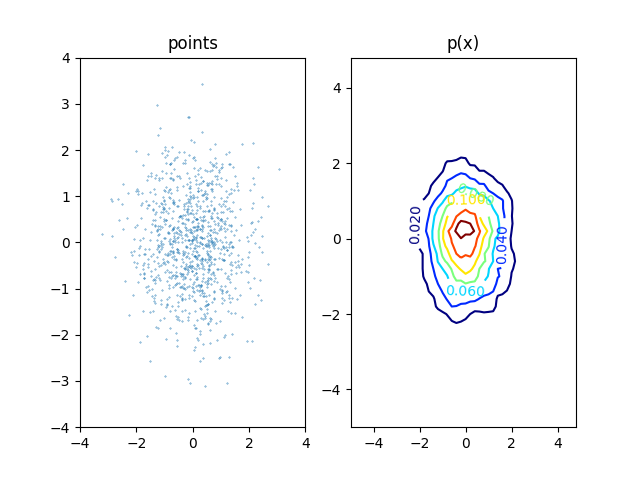
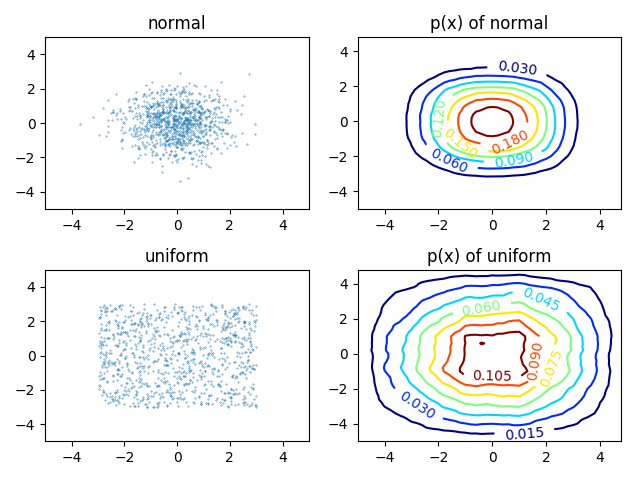
ENH: use viz engine, try two dists

diff --git a/run.py b/run.py
@@ -1,39 +1,34 @@
-import matplotlib.pyplot as plt
 from utils.windows import hypercube_window_func as HCW
 from utils.kernels import hypercube as HCK
 from core.parzen import ParzenWindow
+from utils.viz import ParzenViz
+
 
 if __name__ == "__main__":
     import numpy as np
-    P = ParzenWindow(kernel_fcn=HCK, window_fcn=HCW, window_size=1.)
-    x_train = np.random.multivariate_normal(np.zeros(2),
-                                            np.eye(2),
-                                            1000).astype('float32')
-    print x_train.shape
-    x_sample = np.array([[0, 0]]).astype('float32')
+    P = ParzenWindow(kernel_fcn=HCK, window_fcn=HCW, window_size=2.)
+    x_train_normal = np.random.multivariate_normal(np.zeros(2),
+                                                   np.eye(2),
+                                                   1000).astype('float32')
+    x_sample = np.array([[0.5, 0]]).astype('float32')
 
     print 30 * "-"
+    print "Exp. 1"
     print "x_train \t--> 1000 2D points from multivariate N([0, 0], [[1,0],[0,1]])"
-    print "x \t\t--> ", x_sample.squeeze()
-    print "p(x) \t\t--> ", P.estimate_probability(x_train, x_sample)
+    print "x \t\t--> ", x_sample
+    print "p(x) \t\t--> ", P.estimate_probability(x_sample, x_train_normal)
     print 30 * "-"
 
-    size = 5
-    frac = 0.2
-    p = np.arange(-size, size, frac)
-    map_size = (2 * int(size / frac), 2 * int(size / frac))
-    dist = np.zeros(map_size)
-    for i in range(map_size[0]):
-        for j in range(map_size[1]):
-            dist[i, j] = P.estimate_probability(x_train,
-                                                np.array([[p[i], p[j]]]).astype('float32'))
-    plt.subplot(1, 2, 1)
-    plt.scatter(x_train[:, 0], x_train[:, 1], s=0.1)
-    plt.xlim([-4, 4])
-    plt.ylim([-4, 4])
-    plt.title('points')
-    plt.subplot(1, 2, 2)
-    cs = plt.contour(p, p, dist, cmap='jet')
-    plt.clabel(cs, inline=1)
-    plt.title('p(x)')
-    plt.savefig('plot.png')
+    x_train_uniform = np.random.uniform(-3, 3, (1000, 2)).astype('float32')
+    x_sample = np.array([[0.5, 0]]).astype('float32')
+    print "Exp. 2"
+    print "x_train \t--> 1000 2D points from uniform U(-1, 1)"
+    print "x \t\t--> ", x_sample
+    print "p(x) \t\t--> ", P.estimate_probability(x_sample, x_train_uniform)
+    print 30 * "-"
+
+    viz_engine = ParzenViz(
+        dist_list=[x_train_normal, x_train_uniform],
+        dist_names=['normal', 'uniform'],
+        parzen_obj=P)
+    viz_engine.gen_plots()
